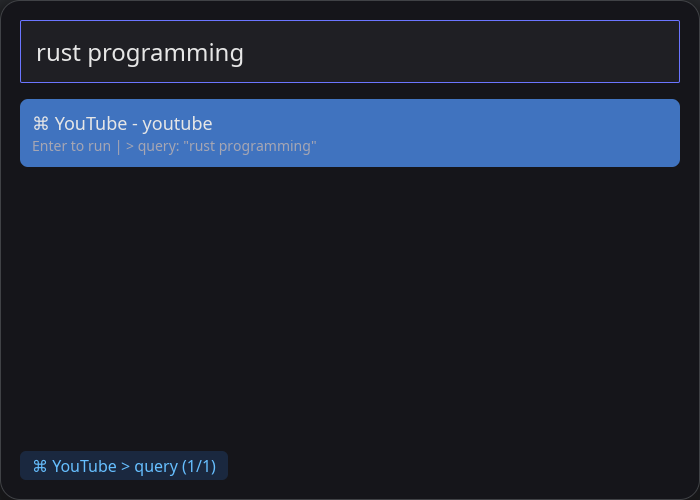
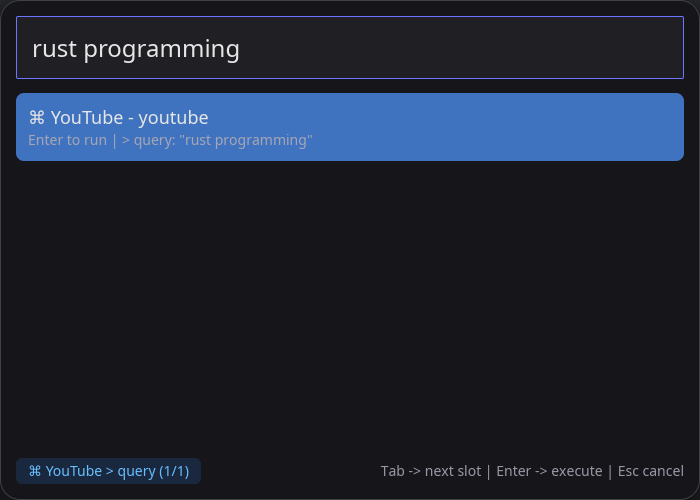
Added demo images and minor fix to warnings

diff --git a/ui/src/main.rs b/ui/src/main.rs
@@ -705,16 +705,16 @@ impl Launcher {
     }
 }
 
-// fn launcher_theme(_state: &Launcher) -> Theme {
-//     Theme::Dark
-// }
+fn launcher_theme(_state: &Launcher) -> Theme {
+    Theme::Dark
+}
 
 fn main() -> iced::Result {
     tracing_subscriber::fmt::init();
 
     iced::application(Launcher::new, Launcher::update, Launcher::view)
         .title("Nanocast")
-        // .theme(launcher_theme)
+        .theme(launcher_theme)
         .subscription(Launcher::subscription)
         .window(iced::window::Settings {
             size: iced::Size::new(CONFIG.window.width, CONFIG.window.height),

diff --git a/engine/src/index.rs b/engine/src/index.rs
@@ -149,6 +149,7 @@ impl IndexBuilder {
         Ok(())
     }
 
+    #[cfg(target_os = "macos")]
     fn index_applications(&self, base_path: &str, items: &mut Vec<LauncherItem>) -> Result<()> {
         let path = Path::new(base_path);
         if !path.exists() {

diff --git a/README.md b/README.md
@@ -15,10 +15,13 @@ Built with ❤️ in Rust.
 
 - **Lightning fast** fuzzy search powered by `nucleo`
 - Global hotkey support (`Ctrl/Cmd + Space` by default)
-- Clean, modern translucent UI with blur effect
-- Keyboard navigation (`↑↓`, `Enter`, `Esc`)
-- Click outside to dismiss
-- Supports **Linux `.desktop` files** and **macOS `.app`** applications
+- Clean, modern UI with rounded corners
+- Keyboard navigation (`↑↓`, `Enter`, `Esc`, `Tab`)
+- Mouse support (click to select, double-click to launch, click outside to dismiss)
+- Supports **Linux `.desktop` files** and **macOS `.app`** bundles
+- Built-in calculator
+- Custom command shortcuts (command mode with slots)
+- Clipboard support
 - Configurable via TOML
 - Starts hidden, low resource usage
 - Built with `iced` (Rust native UI)
@@ -28,44 +31,45 @@ Built with ❤️ in Rust.
 ## Screenshots
 
 ![NanoCast in action](docs/demo.png)
-![NanoCast in command mode](docs/command_mode.png)
+![Command Mode](docs/command_mode.png)
+![Calculator demo](docs/calculator_demo.png)
 
 ---
 
 ## Installation
 
-### From Source (Recommended for now)
+### From Source (Recommended)
 
 ```bash
 # Clone the repo
 git clone https://github.com/Timebom/nanocast.git
 cd nanocast/ui
 
-# Build release version
-cargo run
-
-# Run
-../target/debug/ui
-
-# Kill/Terminate
-ps -ael
-kill <nanocast-ps-id>
+# Build and run
+cargo run --release
 ```
+
+##Pre-built Binaries
+- Linux: Download ```Nanocast-x86_64.AppImage``` from the latest release
+- macOS: Coming soon
 
 ## Usage
 
-1. Run NanoCast (it will start in the background)
-2. Press Ctrl + Space (Linux) or Cmd + Space (macOS) to open
+1. Run NanoCast (it runs in the background)
+2. Press **Ctrl** + **Space** (Linux) or **Cmd** + **Space** (macOS) to open
 3. Type to search applications or files
 4. Use arrow keys to navigate
-5. Press Enter to launch
-6. Press Esc or click outside to close
+5. Press **Enter** to launch
+6. Press **Esc** or click outside to close
+7. To quit: Type ```quit```, ```exit```, or ```kill``` and press Enter
 
 ## Configuration
 ### Configuration file is located at:
 
-- Linux: ~/.config/nanocast/config.toml
-- macOS: ~/Library/Application Support/nanocast/config.toml
+- Linux: ```~/.config/nanocast/config.toml```
+- macOS: ```~/Library/Application Support/nanocast/config.toml```
+
+Run the app once to generate the default config.
 
 ## Example ```config.toml```
 
@@ -85,12 +89,18 @@ blur = true
 index_applications = true
 index_files = true
 file_paths = ["~/Downloads", "~/Documents"]
+
+[[shortcuts]]
+trigger = "youtube"
+name = "Youtube"
+action_type = "open_url"
+command = "https://youtube.com/results?search_query={query}"
 ```
 
 ## Building & Development
 
 ```bash
-# Run in development mode
+# Run in development
 cargo run
 
 # Build optimized release
@@ -100,12 +110,15 @@ cargo build --release
 ## Roadmap
 
 - [x] Better icon support (system icon themes on Linux)
-- [ ] Calculator mode
+- [x] Calculator mode
+- [x] Custom shortcuts with command mode
+- [x] Mouse support (click/double-click)
+- [x] Quit command
 - [ ] Clipboard history
-- [ ] Custom commands / plugins
 - [ ] Window blur effects (macOS vibrancy + Linux)
-- [ ] Pre-built binaries (AppImage, .dmg)
+- [ ] Plugin system
 - [ ] Windows support
+- [ ] Better theming
 
 
 ## Tech Stack
@@ -114,8 +127,8 @@ cargo build --release
 - UI: Iced 0.14
 - Search: Nucleo
 - Hotkeys: global-hotkey
-- Desktop files: freedesktop-file-parser
-- Icon Parsing: freedesktop-icons
+- Clipboard: arboard
+- Calculator: evalexpr
 
 ---
 